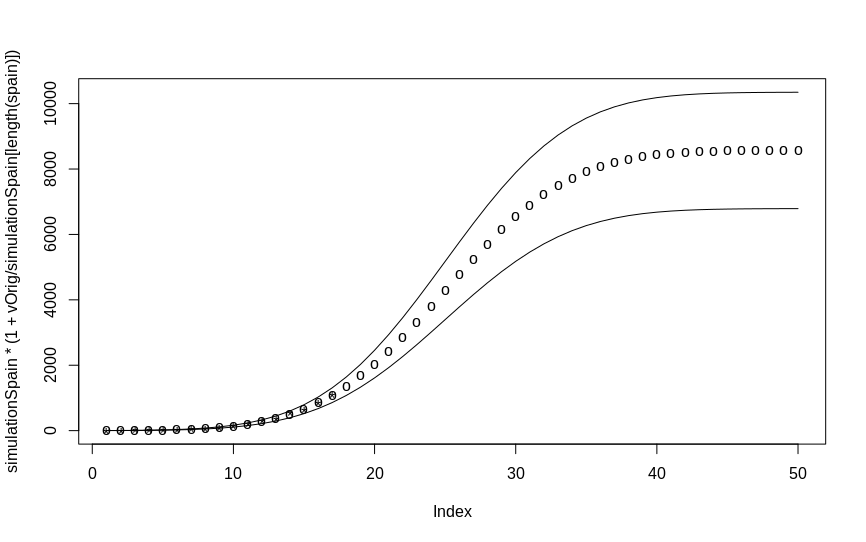
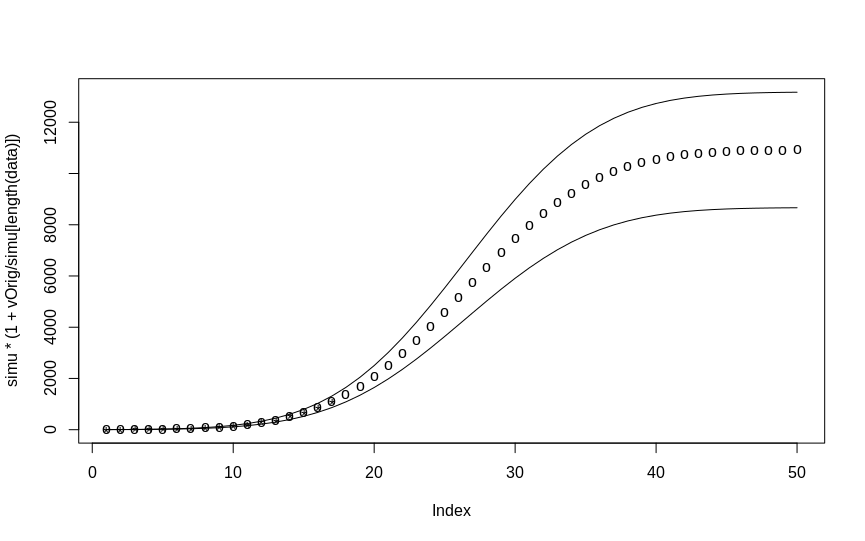
improve approx3, update results

diff --git a/README.md b/README.md
@@ -16,10 +16,10 @@ Coronavirus Simulation
 
 ## Italy
 
-* The number of death should be 13721 +/- 3063
-* The peak of death per day date 2020 / 03 / 25
+* The number of death should be 14760 +/- 2637
+* The peak of death per day date 2020 / 03 / 25.5
 
 ## Spain
 
-* The number of death should be 8571 +/- 1779
-* The peak of death per day date 2020 / 03 / 27-28
+* The number of death should be 10960 +/- 2256
+* The peak of death per day date 2020 / 03 / 31.5
